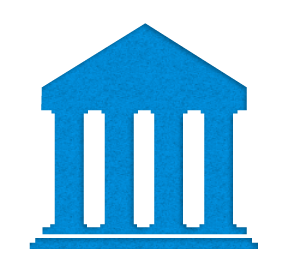
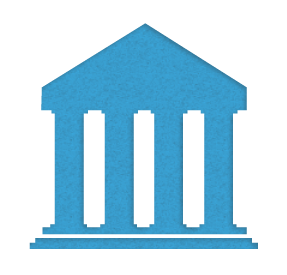
making stylistic changes to index page

diff --git a/css/main.css b/css/main.css
@@ -248,7 +248,7 @@ li {
 }
 
 .logo img {
-    max-height: 100%;
+    width: 100%;
 }
 
 #header {
@@ -358,7 +358,7 @@ a.about-link {
     height: 9.5em;
     padding-top: 2.5em;
     padding-bottom: 0;
-    width: auto;
+    width: 25em;
     float: left;
 }
 .welcome-container .nav-links {
@@ -387,7 +387,7 @@ a.about-link {
 
 #terminal-block-title {
     display: inline;
-    font-size: 6em;
+    font-size: 5.0em;
     font-family: 'inconsolatamedium';
     color: #f4f4f4;
 }
@@ -514,31 +514,35 @@ li.definitions {
 #who-title{
     float: left;
     font-size: 0.7em;
+    width: 47%;
 }
-#who-title h1 {
+#who-title h1,
+#how h1 {
     margin-bottom: 0.5%;
     font-size: 2.5em;
-    font: 3em/100% 'inconsolatamedium';
+    font: 4.3em/100% 'inconsolatamedium';
     display: inline-block;
-    letter-spacing: -2px;
     padding-bottom: 0px;
     border-bottom: 0px;
     text-align: left;
+    text-shadow: rgba(0, 0, 0, 0.2) -1px 0, rgba(0, 0, 0, 0.1) 0 -1px, rgba(255, 255, 255, 0.5) 0 1px, rgba(0, 0, 0, 0.1) -1px -1px;
 }
 #who-title h2 {
     margin-bottom: 0px;
     font-size: 1.8em;
-    font: 1.8em/100% 'inconsolatamedium';
-    letter-spacing: -1px;
+    font: 2.7em/100% 'inconsolatamedium';
     padding-bottom: 0px;
     border-bottom: 0px;
     text-align: left;
+    text-shadow: rgba(0, 0, 0, 0.1) -1px 0, rgba(0, 0, 0, 0.1) 0 -1px, rgba(255, 255, 255, 0.5) 0 1px, rgba(0, 0, 0, 0.1) -1px -1px;
 }
 
 #who-info {
     padding-left: 2%;
     border-left: 1px solid #CCC;
     margin-left:1%;
+    width: 45%;
+    font: 1.1em/120% 'inconsolatamedium';
 }
 #wrapper-columns {
     padding-top: 2%;
@@ -547,9 +551,8 @@ li.definitions {
 }
 #wrapper-columns h2 {
     margin-bottom: 3%;
-    font-size: 1.5em;
-    font: 1.5em/100% 'inconsolatamedium';
-    letter-spacing: -1px;
+    font-size: 1.3em;
+    font: 1.3em/100% 'inconsolatamedium';
     padding-bottom: 0px;
     border-bottom: 0px;
     text-align: center;
@@ -557,33 +560,35 @@ li.definitions {
 }
 .column-1 {
     float:left;
-    width:30%;
+    width:31%;
     -webkit-transition: all 0.2s ease;
     -moz-transition: all 0.2s ease;
     -o-transition: all 0.2s ease;
     -ms-transition: all 0.2s ease;
     height:auto;
+    font: 1.1em/120% 'inconsolatamedium';
 }
 .column-2{
     float:left;
-    margin-left:5%;
-    width:30%;
-    max-width:30%;
+    margin-left:3%;
+    width:31%;
     -webkit-transition: all 0.2s ease;
     -moz-transition: all 0.2s ease;
     -o-transition: all 0.2s ease;
     -ms-transition: all 0.2s ease;
     height:auto;
+    font: 1.1em/120% 'inconsolatamedium';
 }
 .column-3 {
     float:left;
-    margin-left:5%;
-    width:30%;
+    margin-left:3%;
+    width:31%;
     -webkit-transition: all 0.2s ease;
     -moz-transition: all 0.2s ease;
     -o-transition: all 0.2s ease;
     -ms-transition: all 0.2s ease;
     height:auto;
+    font: 1.1em/120% 'inconsolatamedium';
 }
 .column-1 li, .column-2 li, .column-3 li {
     text-align:left;
@@ -941,10 +946,14 @@ a.spin-active {
     margin: 0 auto;
 }
 .what-cards-mobile h3 {
-    color:orange;
+    color: #BFB6AA;
 }
 .what-cards-mobile p {
     font-size:.7em;
+}
+
+.what-cards-mobile h1 {
+    text-shadow: rgba(0, 0, 0, 0.1) -1px 0, rgba(0, 0, 0, 0.1) 0 -1px, rgba(255, 255, 255, 0.5) 0 1px, rgba(0, 0, 0, 0.1) -1px -1px;
 }
 
 /* BLOCK 4  | HOW WE WORK */
@@ -953,8 +962,8 @@ a.spin-active {
     padding-bottom: 12%;
     background:#2d2d2d url('../assets/img/bgwhite.png') repeat;
     overflow: hidden;
-    -webkit-box-shadow: inset 0px -8px 29px 10px rgba(0, 0, 0, .8);
-    box-shadow: inset 0px -8px 29px 0px rgba(0, 0, 0, .8);
+    -webkit-box-shadow: inset 0px -8px 29px 10px rgba(0, 0, 0, .1);
+    box-shadow: inset 0px -8px 29px 0px rgba(0, 0, 0, .1);
 }
 .how-content {
     position:relative;
@@ -964,18 +973,16 @@ a.spin-active {
     margin: 0 auto;
 }
 
+.how-content p {
+    font: 1.15em/120% 'inconsolatamedium';
+}
+
 .how-content .block-left{
     z-index: 10;
 }
 
 #how h1 {
-    margin-bottom: 0.5%;
     font: 3em/100% 'inconsolatamedium';
-    display: inline-block;
-    letter-spacing: -2px;
-    text-align: left;
-	  border-bottom: 0px;
-    padding-bottom: 1%;
 }
 
 /* GEARS CSS */

diff --git a/css/media-queries.css b/css/media-queries.css
@@ -19,8 +19,19 @@
   .header-section > .content-container { width: 77.7em;}
 
   /********** HOME PAGE **********/
+
   /* SECTION 1 */
   .welcome-content { width: 70em; }
+
+  /* SECTION 2 */
+  .who-content { width: 70em; }
+  #wrapper-columns h2 { font: 1.5em/100% 'inconsolatamedium'; }
+  #who-info { font: 1.15em/120% 'inconsolatamedium'; }
+  .column-1 { font: 1.15em/120% 'inconsolatamedium'; }
+  .column-2 { font: 1.15em/120% 'inconsolatamedium'; }
+  .column-3 { font: 1.15em/120% 'inconsolatamedium'; }
+  #who-title h1 { font: 4.5em/100% 'inconsolatamedium';}
+  #who-title h2 { font: 3.0em/100% 'inconsolatamedium'; }
 
   /****** ACADEMY PAGE *******/
   .academy-page .block-right img { width: auto; }
@@ -147,25 +158,30 @@
 
   /* SECTION 2 */
   #who-title, #who-info{ width:100%; float:none; clear:both; display:block;}
-  #who-info{ border-left: 0; padding-left:0; margin-left:0;} 
+  #who-info{ border-left: 0; padding-left:0; margin-left:0; font: 1.15em/120% 'inconsolatamedium'; } 
   #who-title{ text-align: center;}
   #who-title h2{ text-align: center; padding-bottom: 7.5%;}
   #who .column-1 img, #who .column-2 img, #who .column-3 img, .rollover {display:none;}
-  #who .column-1, #who .column-2,#who .column-3  {width:100%;max-width:100%;height:auto;margin-left:0;margin-top:0;}
+  #who .column-1, #who .column-2,#who .column-3  {width:100%;max-width:100%;height:auto;margin-left:0;margin-top:0; font: 1.15em/120% 'inconsolatamedium';}
   #who .column-1 h2{text-align:center;}
   #wrapper-columns .column-1 p:nth-child(2), #wrapper-columns .column-2 p:nth-child(2), #wrapper-columns .column-3 p:nth-child(2) {display:none;} 
   #who .column-1:hover .rollover,#who .column-2:hover .rollover,#who .column-3:hover .rollover {opacity:0;}
   #who .column-1:hover img,#who .column-2:hover img,#who .column-3:hover img {opacity:1;}
-  
+  .who-content { width: 44em; }
+
   /* SECTION 3 */
   .what-cards-mobile{display:block; width:100%;}
   .what-cards-mobile h1{ font: 2.5em/120% 'inconsolatamedium';}
   .what-cards-mobile h3{ font: 1.8em/120% 'inconsolatamedium'; }
   .what-cards-mobile p { font: 1.3em/120% 'inconsolatamedium'; }
-   #carousel-wrapper,#carousel-buttons{display:none;}
+   #carousel-wrapper,
+   #carousel-buttons { display:none; }
+   .what-content { width: 44em; }
 
   /* SECTION 4 */
-  #gear-wrapper{opacity: .5;left: -180px;display:block;}
+  #gear-wrapper{opacity: .5;left: -180px;display:none;}
+  .how-content .block-left { width: 100%; }
+  .how-content { width: 44em; }
 
   /* SECTION 5 */
    #clients-title{width:275px;min-width:275px;}
@@ -285,14 +301,24 @@
   .welcome-container .block-left { width:100%;	} 
   #type-command-one, #type-command-two, #type-command-three{ display: none;}
   .terminal-buttons { left:0; text-align: center; width:100%; }
-  #terminal-window a {font-size: 1.2em; padding: 15px 18px; margin-left: 3%; margin-right: 3%;}
 
   /* SECTION 1 */
   .welcome-content { width: 22em; }
   #terminal-block-title { font-size: 4.0em; }
+  .terminal-buttons { margin-top: 3em; }
+  #terminal-window a {font-size: 1.2em; padding: 15px 18px; margin-left: 0; margin-right: 0; }
+
+  /* SECTION 2 */
+  .who-content { width: 22em; }
+  #who-title h2 { text-align: left; width: 10em; }
+  #who-title h1 { margin-bottom: 0.5em; }
+
+  /* SECTION 3 */
+  .what-content { width: 22em; }
 
   /* SECTION 4 */
   #gear-wrapper{display: none;}
+  .how-content { width: 22em; }
 
   /* SECTION 5 */
   #clients br {line-height:15px;} 
@@ -443,8 +469,18 @@
   /* SECTION 1 */
   .welcome-content { width: 17em; }
   #terminal-block-title {font-size: 2.9em; }
-  .welcome-container .logo img {width: 85%; margin-left: -3em; height: 8em;}
+  .welcome-container .logo img {width: 85%; margin-left: -3em; }
   .nav-links .about-link {margin-left: 0em;}
+
+  /* SECTION 2 */
+  .who-content { width: 19em; }
+  #who-title h1 { margin-bottom: 0.3em; }
+
+  /* SECTION 3 */
+  .what-content { width: 19em; }
+
+  /* SECTION 4 */
+  .how-content { width: 19em; }
 
   /* SECTION 6 */
   #google-maps-wrapper {width:250px;height:325px;margin-left:-125px;left:50%;top:50%;margin-top:-180px;}
